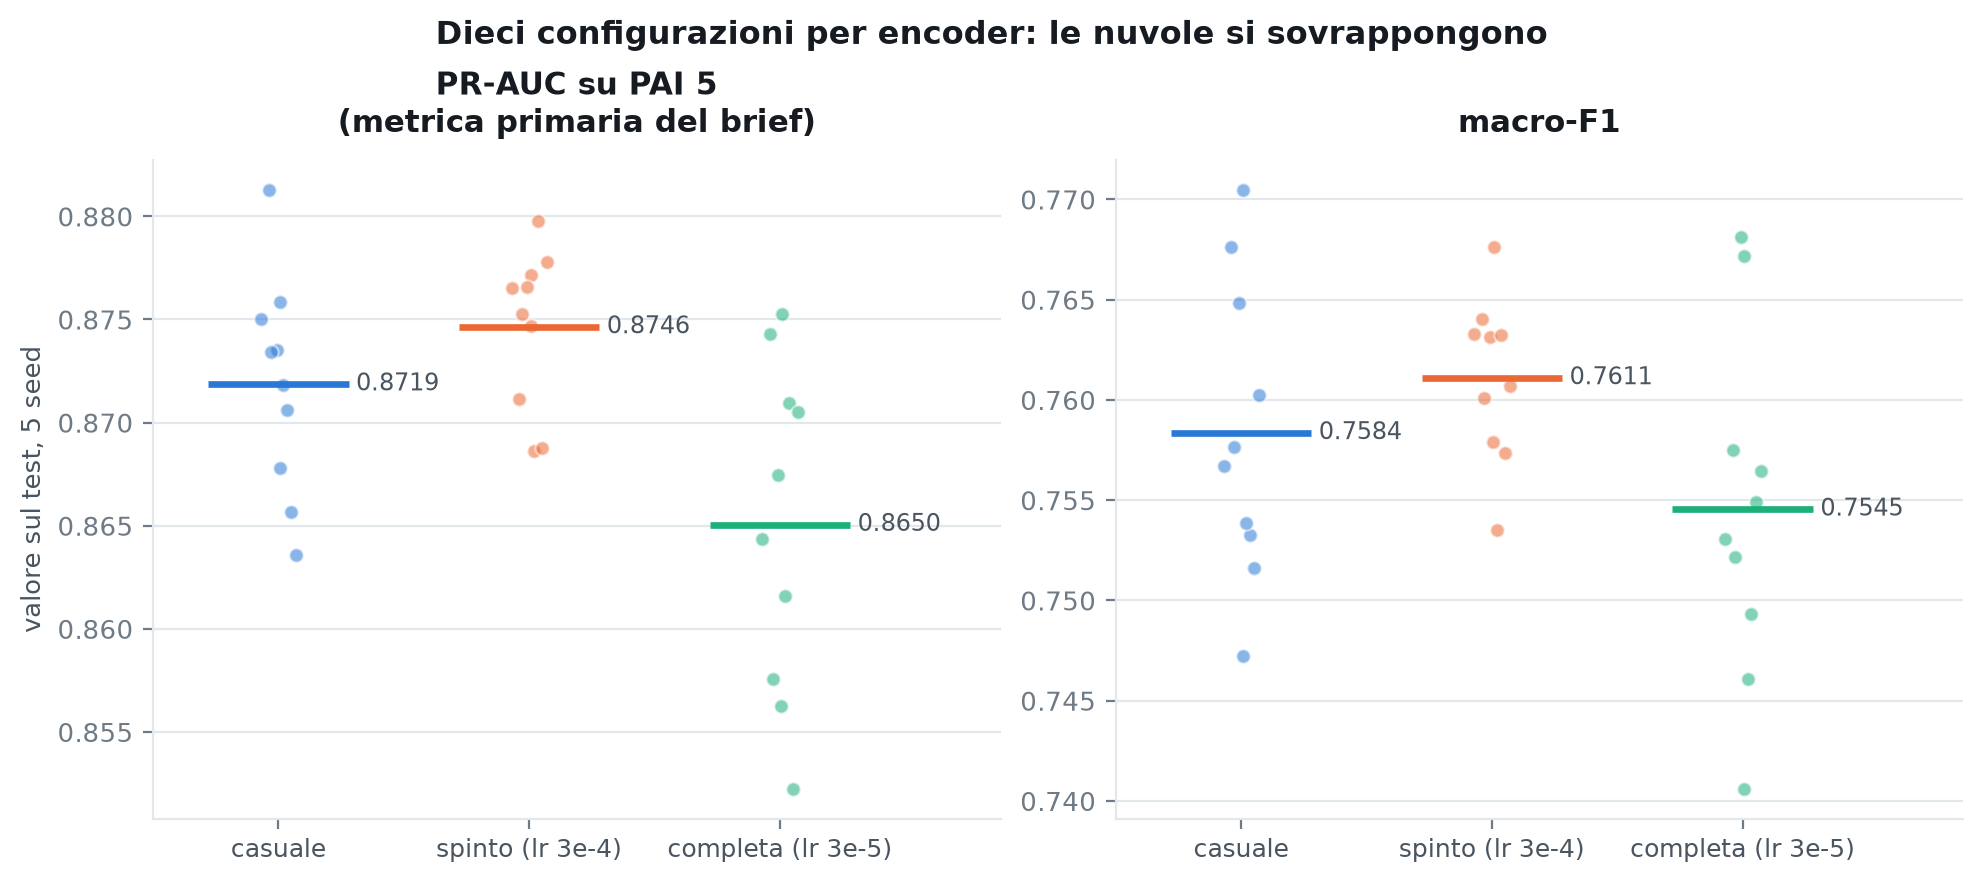
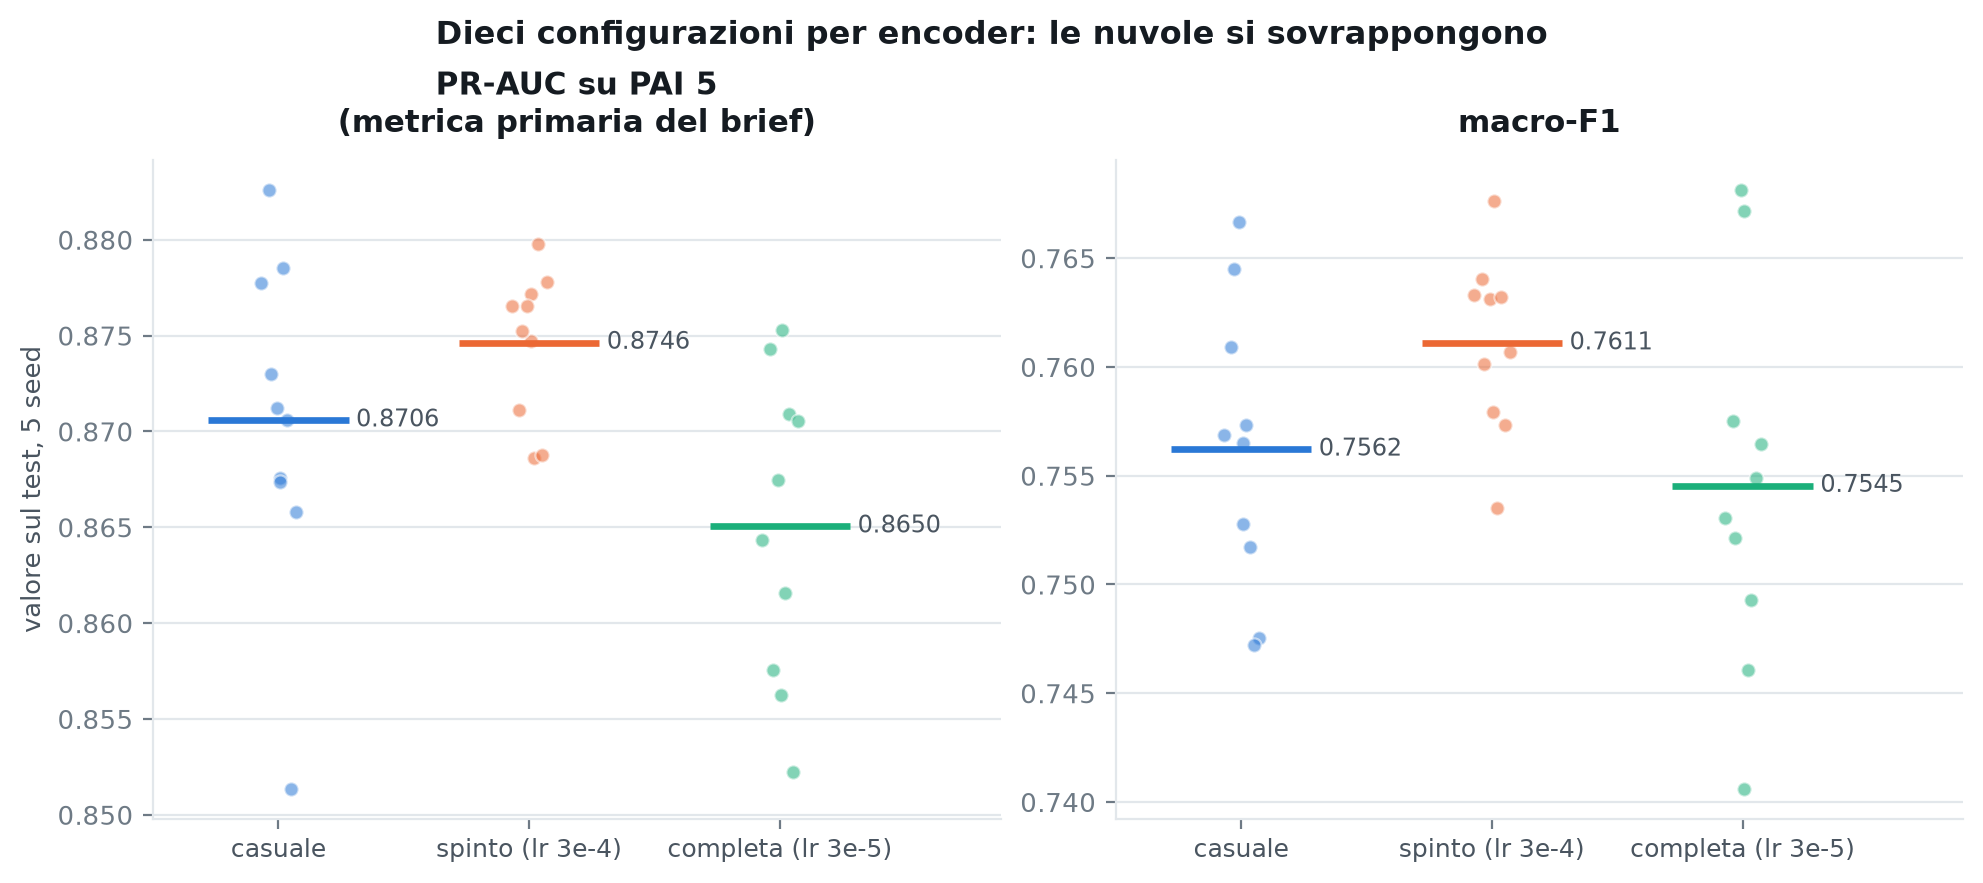
sonde senza parametri: da C a F, e cosa concludono davvero
C. STRATIFICATA sui casi dove la dimensione inganna. La partizione la
decide il pavimento geometrico stesso: si adatta sul train la regola a due
soglie (72 e 106 px, macro-F1 0.7558 sul test) e gli ingannevoli sono
esattamente quelli che sbaglia. 205 casi su 1013, e sono quelli attesi:
89 PAI 3 con lato mediano 77 px contro i 57 tipici, 27 PAI 5 con 93 px
contro 126, e il 34% di tutti i PAI 4.

    gruppo         casuale   completa   delta      z
    tipici          0.9238     0.9186  -0.0052  -0.88
    ingannevoli     0.3346     0.3561  +0.0215  +1.43

Direzione giusta, significativita' no. E il dato che conta e' un altro:
ENTRAMBI stanno a ~0.34 sugli ingannevoli, cioe' il livello del caso su
tre classi. L'informazione d'aspetto c'e' nel vettore di completa - la
sonda cieca lo mostra a 24 sigma - ma la testa non la usa: con la
scorciatoia geometrica sufficiente per l'80% dei casi non c'e' incentivo a
impararla. E' shortcut learning, e rende il protocollo cieco piu' prezioso
non meno: e' l'unico modo in cui il modello viene costretto a usarla.

D. DOVE VIVE L'INFORMAZIONE, sonda k-NN per blocco:

                        b2      b7     b11
    geo  casuale    0.7626  0.7639  0.7680
    geo  completa   0.6400  0.4910  0.4892
    cieco casuale   0.3025  0.3148  0.3263
    cieco completa  0.6099  0.6112  0.6084

Il segnale geometrico decade con la profondita' SOLO nell'addestrato: nel
casuale e' piatto perche' qualunque proiezione casuale conserva l'area.
[…]

diff --git a/figure_finali.py b/figure_finali.py
@@ -315,6 +315,91 @@ def fig_traiettoria():
 # --------------------------------------------------------------------------
 # 5. Lo sweep di alpha
 # --------------------------------------------------------------------------
+def fig_sonde():
+    """
+    Le due figure che il ribaltamento richiede, affiancate.
+
+    A SINISTRA la curva di apprendimento: la qualita' della rappresentazione
+    contro le epoche di pre-training, nel protocollo cieco alla dimensione.
+    E' la dimostrazione diretta dell'obiettivo 1 - non un confronto a due
+    punti ma una tendenza, e per giunta non satura a 179 epoche.
+
+    A DESTRA il decadimento del segnale geometrico con la profondita'. Nel
+    casuale e' piatto perche' qualunque proiezione casuale conserva l'area;
+    nell'addestrato scende, perche' il masked prediction costruisce
+    invarianza e l'invarianza costa la geometria. Le due curve del cieco
+    sono piatte e distanti: l'informazione d'aspetto c'e' gia' tutta al
+    blocco 2 e non cresce.
+
+    Tutto senza un solo parametro addestrato: e' una sonda k-NN sulla media
+    dei token dentro la bbox. Serve a rispondere in anticipo a "non sara' la
+    testa a fare il lavoro?".
+    """
+    percorso = os.path.join(OUT_DIR, "sonde_vit_small.json")
+    if not os.path.isfile(percorso):
+        print("  salto fin7_sonde: lanciare prima exp_sonde.py")
+        return None
+    with open(percorso, encoding="utf-8") as f:
+        d = json.load(f)["sonde"]
+
+    fig, (ax1, ax2) = plt.subplots(1, 2, figsize=(11.2, 4.5))
+
+    # ---- sinistra: curva di apprendimento, solo la config confrontabile ----
+    curva = [(r["epoche"], r["tutti"]["macro_f1"])
+             for n, r in d["cieco"].items() if n in ("casuale", "notte", "completa")]
+    curva.sort()
+    x, y = zip(*curva)
+    ax1.plot(x, y, color=BLU, linewidth=2.4, marker="o", markersize=7,
+             markeredgecolor="white", markeredgewidth=1.2, zorder=3)
+    # Il primo punto E' l'encoder casuale: una riga di riferimento alla sua
+    # altezza sarebbe ridondante col punto stesso, e ci finiva sopra
+    # l'etichetta. Si etichetta il punto e basta.
+    for i, (xi, yi) in enumerate(curva):
+        ax1.annotate(f"{yi:.4f}", (xi, yi), textcoords="offset points",
+                     xytext=(14 if i == 0 else 0, 4 if i == 0 else 11),
+                     ha="left" if i == 0 else "center",
+                     fontsize=9, color=INK_MID)
+    ax1.annotate("0 epoche = encoder casuale", (x[0], y[0]),
+                 textcoords="offset points", xytext=(14, -13),
+                 ha="left", fontsize=8.5, color=INK_SOFT)
+    ax1.set_xlabel("epoche di pre-training I-JEPA")
+    ax1.set_ylabel("macro-F1, sonda k-NN")
+    ax1.set_title("La rappresentazione migliora, e non &egrave; satura"
+                  .replace("&egrave;", "e'"))
+    ax1.set_ylim(min(y) - 0.05, max(y) + 0.06)
+    ax1.yaxis.grid(True, zorder=0)
+    ax1.set_axisbelow(True)
+
+    # ---- destra: per blocco, nei due protocolli ----
+    bl = ["b2", "b7", "b11"]
+    xs = [2, 7, 11]
+    stile = {("geometrico", "casuale"):  dict(color=ARANCIO, ls="-",  marker="o"),
+             ("geometrico", "completa"): dict(color=ARANCIO, ls="--", marker="s"),
+             ("cieco", "casuale"):       dict(color=BLU, ls="-",  marker="o"),
+             ("cieco", "completa"):      dict(color=BLU, ls="--", marker="s")}
+    for (prot, enc), kw in stile.items():
+        if enc not in d.get(prot, {}):
+            continue
+        v = [d[prot][enc][b]["macro_f1"] for b in bl]
+        ax2.plot(xs, v, linewidth=2, markersize=6, markeredgecolor="white",
+                 markeredgewidth=0.9, zorder=3,
+                 label=f"{prot}, {enc}", **kw)
+    ax2.set_xticks(xs)
+    ax2.set_xlabel("blocco del ViT")
+    ax2.set_ylabel("macro-F1, sonda k-NN")
+    ax2.set_title("Il segnale geometrico decade, l'aspetto no")
+    # La legenda va sotto: con quattro serie qualunque posizione interna
+    # finisce addosso a una curva, e qui lo spazio verticale libero non c'e'.
+    ax2.legend(fontsize=8.5, loc="upper center", bbox_to_anchor=(0.5, -0.20),
+               ncol=2, columnspacing=1.4, handlelength=2.2)
+    ax2.yaxis.grid(True, zorder=0)
+    ax2.set_axisbelow(True)
+
+    fig.tight_layout()
+    print("  fin7_sonde da", os.path.basename(percorso))
+    return salva(fig, "fin7_sonde")
+
+
 def fig_curve_pr():
     """
     Le curve precision-recall su PAI 5 - la metrica primaria, non compressa.
@@ -477,7 +562,7 @@ def fig_alpha():
 if __name__ == "__main__":
     fatte = []
     for f in (fig_soffitto, fig_encoder, fig_novita, fig_traiettoria,
-              fig_alpha, fig_curve_pr):
+              fig_alpha, fig_curve_pr, fig_sonde):
         p = f()
         if p:
             fatte.append(p)

diff --git a/exp_sonde.py b/exp_sonde.py
@@ -1,0 +1,112 @@
+"""
+Le sonde senza parametri: cosa contiene un vettore, prima di qualunque testa.
+
+PERCHE' SENZA PARAMETRI. La domanda "questo encoder e' migliore?" con una
+testa addestrata in mezzo ha sempre una risposta ambigua: puo' essere
+l'encoder, puo' essere che la testa abbia compensato. Una sonda k-NN sulla
+media dei token dentro la bbox non ha niente da addestrare - se separa le
+classi, e' perche' il vettore le separa.
+
+E' anche il modo standard di valutare rappresentazioni self-supervised
+quando si vuole misurare la rappresentazione e non la capacita' della
+testa.
+
+COSA MISURA, su tre assi incrociati:
+
+  PROTOCOLLO   geometrico (finestra fissa, il compito del brief) contro
+               cieco alla dimensione (finestra 3x la bbox, ridimensionata)
+  ENCODER      casuale, e i checkpoint del pre-training
+  BLOCCO       2, 7, 11 separatamente, e i tre concatenati
+
+I tre assi insieme rispondono a domande che nessuno di loro risponde da
+solo: DOVE vive l'informazione (blocco), QUALE informazione e' (protocollo),
+e QUANDO compare (epoche del checkpoint).
+
+Uso:
+    python exp_sonde.py                    # tutto quello che trova
+    python exp_sonde.py --k 20
+"""
+
+import argparse
+import json
+import os
+
+import numpy as np
+import torch
+
+from evaluation import confusion_matrix, macro_f1, quadratic_weighted_kappa
+from globals import OUT_DIR
+from train_downstream import load_latents, percorso_latenti
+from utils import save_json
+
+# nome leggibile -> (tag dei latenti, epoche di pre-training)
+ENCODER = {
+    "casuale":  ("_casuale",       0),
+    "notte":    (None,             40),     # solo cieco
+    "completa": ("_geo_completa", 179),
+    "mask80":   (None,            208),     # solo cieco
+}
+CIECO = {"casuale": "_cieco_casuale", "notte": "_cieco_notte",
+         "completa": "_cieco_completa", "mask80": "_cieco_mask80"}
+BLOCCHI = {"b2": slice(0, 384), "b7": slice(384, 768),
+           "b11": slice(768, 1152), "tutti": slice(0, 1152)}
+
+
+def media_mascherata(d, sl):
+    """Media dei token dentro la bbox, per un sottoinsieme di dimensioni."""
+    t, m = d["tokens"][:, :, sl].float(), d["mask"].float()
+    return (t * m[..., None]).sum(1) / m.sum(1, keepdim=True).clamp(min=1)
+
+
+def knn(tr, ytr, te, k=20):
+    tr = torch.nn.functional.normalize(tr, dim=-1)
+    te = torch.nn.functional.normalize(te, dim=-1)
+    return torch.mode(ytr[(te @ tr.T).topk(k, dim=1).indices], dim=1).values.numpy()
+
+
+def sonda(tag, variant, layers, k):
+    """macro-F1 e kappa per ciascun blocco, o None se i latenti mancano."""
+    if tag is None or not os.path.isfile(percorso_latenti(variant, layers, tag)):
+        return None
+    c = load_latents(variant, layers=layers, tag=tag)
+    tr, te = c["data"]["train"], c["data"]["test"]
+    y = te["labels"].numpy()
+    out = {}
+    for nome, sl in BLOCCHI.items():
+        p = knn(media_mascherata(tr, sl), tr["labels"], media_mascherata(te, sl), k)
+        cm = confusion_matrix(y, p)
+        out[nome] = {"macro_f1": macro_f1(cm),
+                     "kappa": quadratic_weighted_kappa(y, p)}
+    del c
+    return out
+
+
+if __name__ == "__main__":
+    ap = argparse.ArgumentParser()
+    ap.add_argument("--variant", default="vit_small")
+    ap.add_argument("--layers", type=int, nargs="+", default=[2, 7, 11])
+    ap.add_argument("--k", type=int, default=20)
+    a = ap.parse_args()
+
+    fuori = {"k": a.k, "blocchi": list(BLOCCHI), "sonde": {}}
+    for prot, mappa in (("geometrico", {n: t for n, (t, _) in ENCODER.items()}),
+                        ("cieco", CIECO)):
+        fuori["sonde"][prot] = {}
+        for nome, tag in mappa.items():
+            r = sonda(tag, a.variant, a.layers, a.k)
+            if r:
+                fuori["sonde"][prot][nome] = {"epoche": ENCODER[nome][1], **r}
+
+    for prot, d in fuori["sonde"].items():
+        print(f"\n=== {prot.upper()} === macro-F1 della sonda k-NN, "
+              f"nessun parametro addestrato")
+        print(f"{'encoder':12s} {'epoche':>7s} " +
+              " ".join(f"{b:>9s}" for b in BLOCCHI))
+        print("-" * 58)
+        for nome, r in sorted(d.items(), key=lambda x: x[1]["epoche"]):
+            print(f"{nome:12s} {r['epoche']:7d} " +
+                  " ".join(f"{r[b]['macro_f1']:9.4f}" for b in BLOCCHI))
+
+    percorso = os.path.join(OUT_DIR, "sonde_vit_small.json")
+    save_json(fuori, percorso)
+    print(f"\nRisultati in {percorso}")
